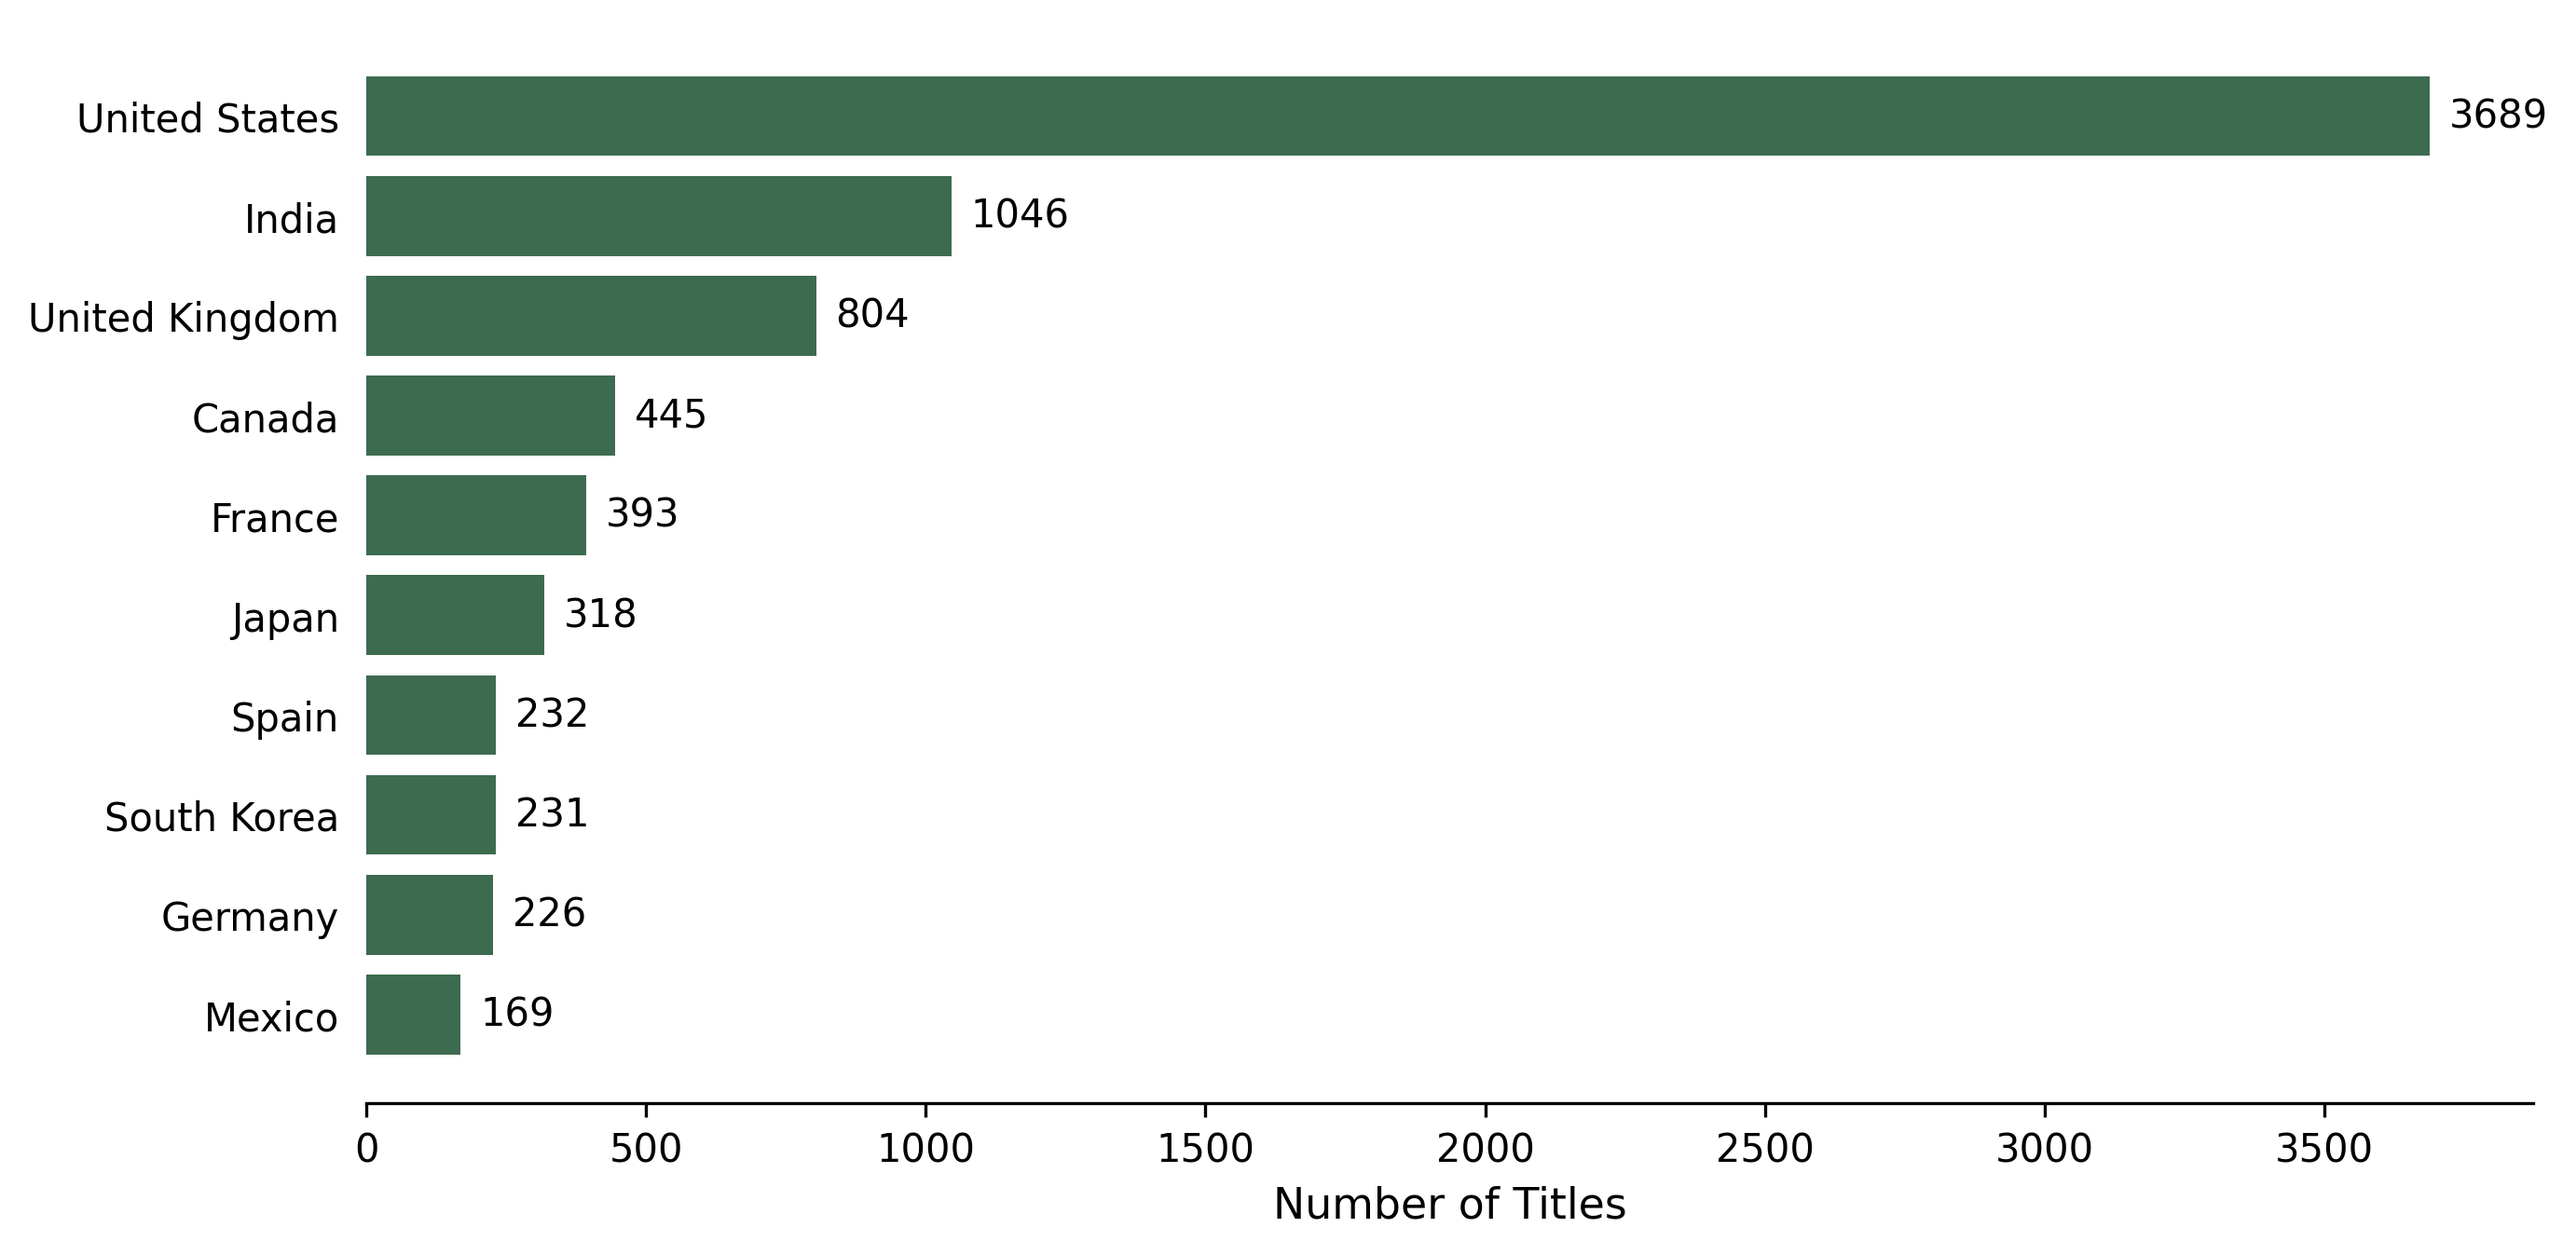
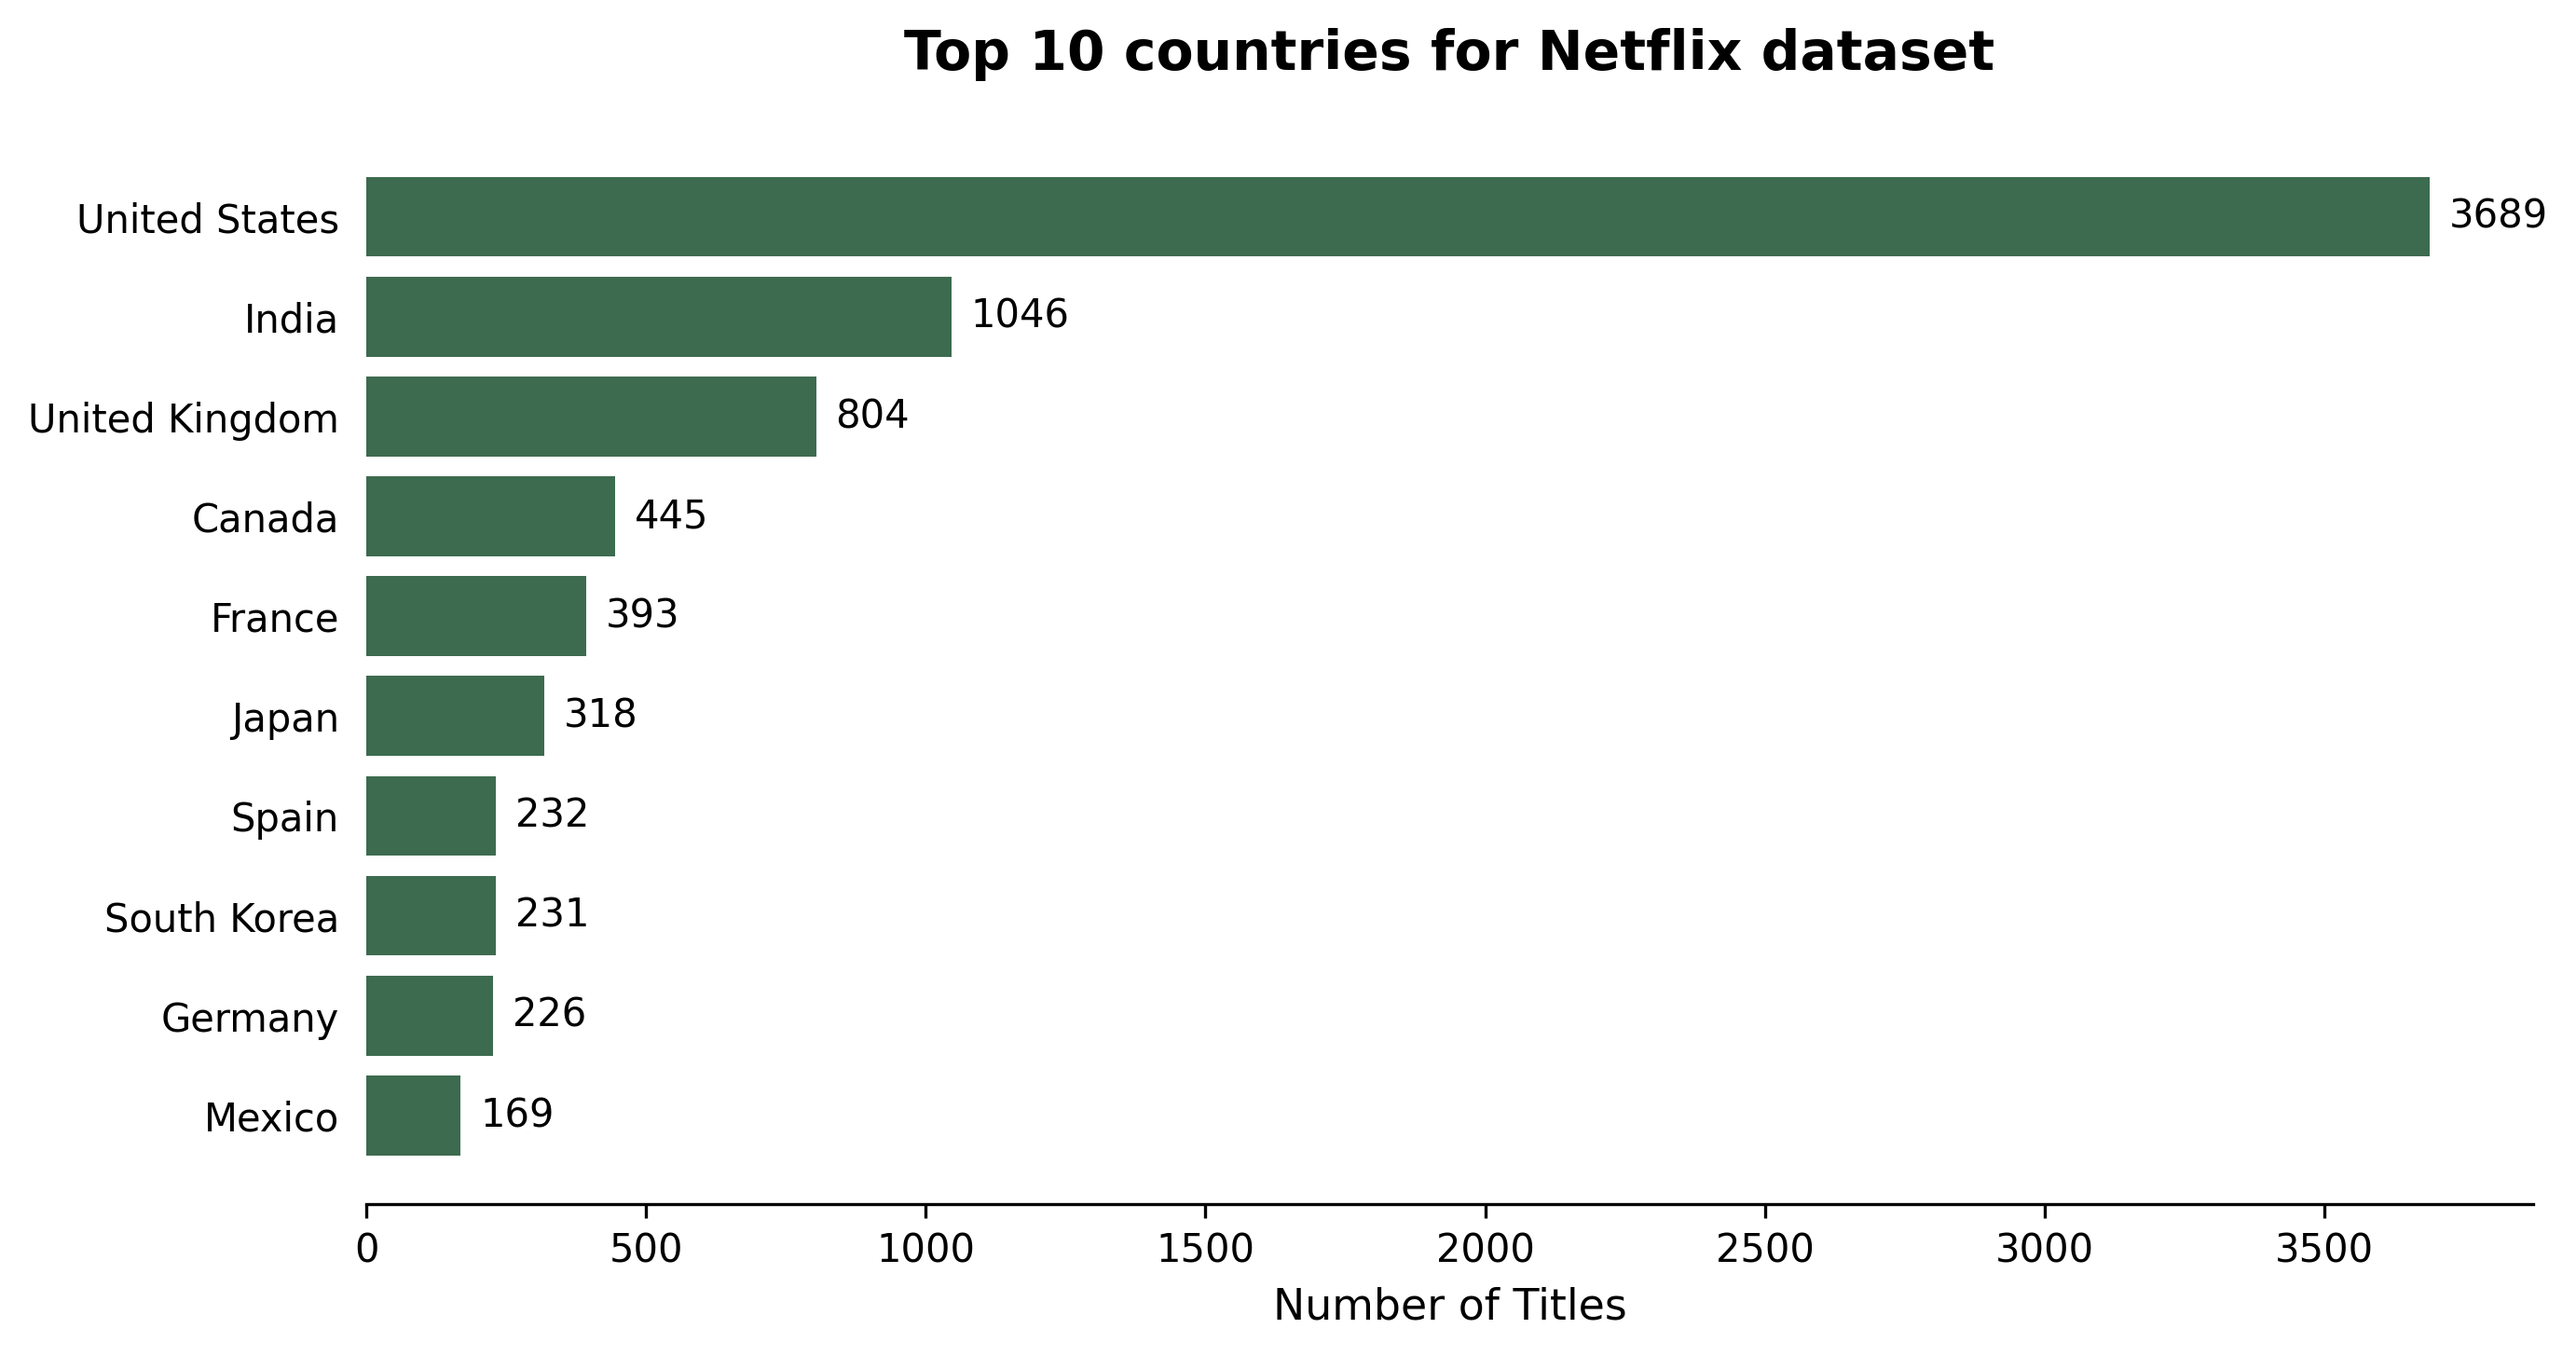
Add Questions and answers to the README.md file

Changed region(s): [[0.0, 0.0, 0.9957, 0.8419], [0.1245, 0.8419, 0.9957, 0.9666], [0.0622, 0.8107, 0.1245, 0.8419]]

diff --git a/src/Assignment08.py b/src/Assignment08.py
@@ -188,6 +188,7 @@ def q4_b(df: pd.DataFrame, charts_save_location: str)-> None:
     ax.set_xlabel('Number of Titles', fontsize=11)
     ax.spines[['top','right','left']].set_visible(False)
     ax.tick_params(left=False)
+    plt.title('Top 10 countries for Netflix dataset', fontsize=14, fontweight='bold', pad=15)
     plt.savefig(os.path.join(charts_save_location,chart_name), dpi=300, bbox_inches='tight')
     log.info(f"The Q4-b's chart is saved in {os.path.join(charts_save_location,chart_name)} ")
     #plt.show()
@@ -206,6 +207,7 @@ def q4_c(df: pd.DataFrame, charts_save_location: str)-> None:
     wide = added.pivot(
     index='year_added', columns='type',
     values='count').fillna(0)
+    wide.index = wide.index.astype(int)
     fig, ax = plt.subplots(figsize=(9, 5))
     wide.plot(kind='bar', stacked=True, ax=ax,
     color=['#C9A84C','#3D6B4F'],
@@ -213,6 +215,7 @@ def q4_c(df: pd.DataFrame, charts_save_location: str)-> None:
     ax.set_xlabel('Year'); ax.set_ylabel('Titles Added')
     ax.tick_params(axis='x', rotation=0)
     ax.legend(title='Type', frameon=False)
+    plt.title('Stacked Movies and TV shows', fontsize=14, fontweight='bold', pad=15)
     ax.spines[['top','right']].set_visible(False)
     plt.savefig(os.path.join(charts_save_location,chart_name), dpi=300, bbox_inches='tight')
     log.info(f"The Q4-c's chart is saved in {os.path.join(charts_save_location,chart_name)} ")

diff --git a/README.md b/README.md
@@ -1,6 +1,6 @@
 # Data Analysis Summary
 ## Executive Summary
-This report shares the main facts from three different datasets. To give you the answers first:
+This report shares the main facts from three different datasets (Chess, Netflix and Temperature dataswers):
 *	**Chess:** Matches last much longer when players run out of time instead of checkmating or resigning.
 *	**Netflix:** Most movies share a standard runtime of 90 to 100 minutes.
 *	**Temperature:** Global temperatures have climbed steadily, hitting a record high in 2024.
@@ -21,3 +21,48 @@ This warming trend reached its highest point at the very end of the chart, where
 ![Global Temperature Trend](./output/charts/AQ3.png)
 **Chart Citation:** This finding is from **`AQ3.png`**.
 
+# The three datasets locations
+- Chess dataset path: `data\raw\chess_games.csv`
+- Netflix dataset::
+    - URL: [Netflix dataset](https://www.kaggle.com/datasets/shivamb/netflix-shows)
+    -  Local path: `data\raw\netflix_titles.csv` 
+- Temperature dataset URLs and local path:
+  - Annual Temperature dataset: 
+      - URL: [Annual tempretature dataset](https://raw.githubusercontent.com/datasets/global-temp/main/data/annual.csv) 
+      - Local path: `data\raw\annual.csv`
+  - Monthly Temperature dataset:
+      -  URL: URL: [Monthly tempretature dataset](https://raw.githubusercontent.com/datasets/global-temp/main/data/monthly.csv)
+      -  Local path: `data\raw\monthly.csv`
+
+# Assignment 8 Questions and Answers:
+This section shows the assignment's questions, the function name called to answer the corresponding question and the answer of tha question.
+
+## AQ1 Pivot + melt + grouped bar
+- **Question:** pivot_table(turns by victory_status × winner) → melt() → sns.barplot(hue='winner'). Annotate the median for each group.
+- **Function name:** q1
+- **Answer:** ![Chess Match Lengths](./output/charts/AQ1.png)
+## AQ2 Rolling analysis — one player
+- **Question:** Choose any player with 15+ games. Plot raw rating + rolling(5) + expanding avg. Annotate their highest-rated game.
+- **Function name:** q2
+- **Answer:** ![Rating Progression Trends for Player: Taranga](./output/charts/AQ2.png)
+- 
+## AQ3 Temperature time-series
+- **Question:** GISTEMP annual → line + rolling(10) + fill_between(above/below zero). Annotate the hottest year. Save at 150 dpi.
+- **Function name:** q3
+- **Answer:** ![Global Temperature Trend](./output/charts/AQ3.png)
+  
+## AQ4 Netflix EDA — 3 charts
+- **Question (a):** Histogram of movie duration. 
+    - **Function name:** q4_a
+    -  **Answer:**![Netflix Movie Durations](./output/charts/AQ4-a_netflix_movie_duration_histogram.png)
+- **Question (b):** Top 10 countries (horizontal bar, multi-country split). 
+    - **Function name:** q4_b
+    - **Answer:** ![Top 10 countries for Netflix dataset](./output/charts/AQ4-b_netflix_top10_countries.png)
+- **Question (c):** Stacked bar 2013–2021.
+    - **Function name:** q4_c
+    - **Answer:**![Stacked Movies and TV shows](./output/charts/AQ4-c_netflix_stacked_bar.png)
+  
+## AQ5 Temperature heatmap
+- **Question:**Monthly temp → pivot_table(month × decade) → sns.heatmap(cmap='RdYlBu_r', center=0). Use years ≥ 1950. TEMP_MONTHLY_URL = "https://raw.githubusercontent.com/datasets/global-temp/main/data/monthly.csv"
+- **Function name:** q5
+- **Answer:** ![Temperature Anomaly](./output/charts/AQ5_temp_heatmap.png)
